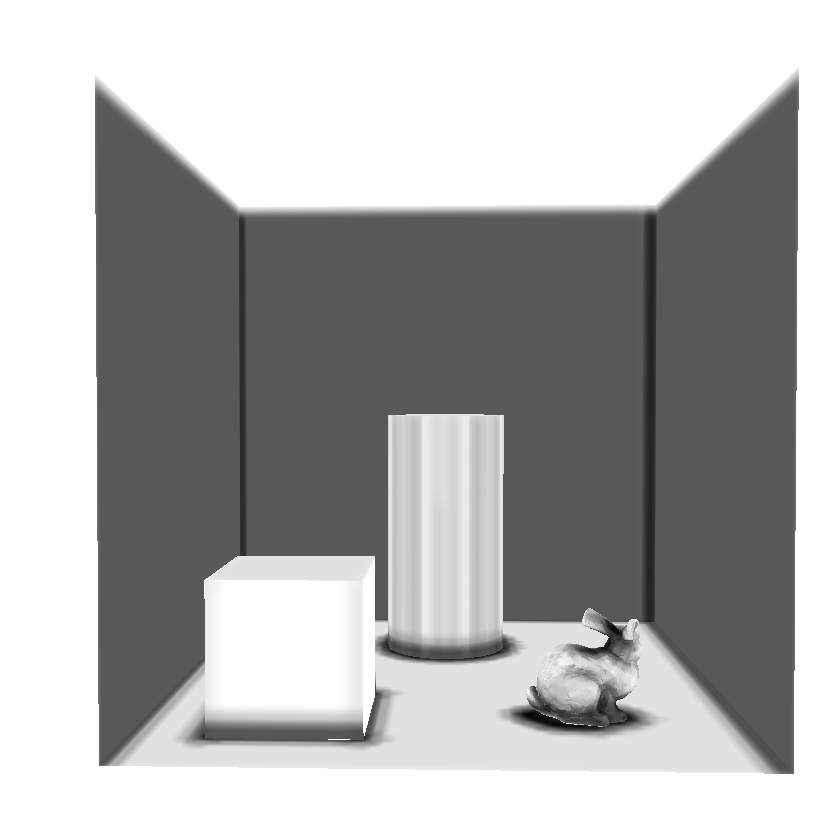
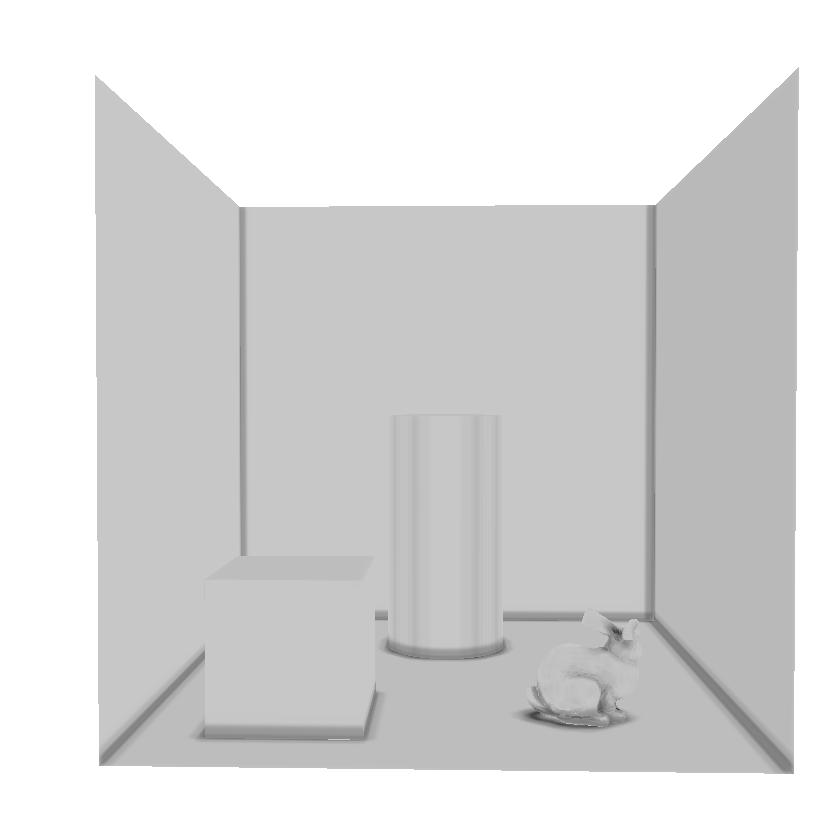
Polished post processing step

diff --git a/crates/core/src/cone_tracing/voxel_cone_trace.rs b/crates/core/src/cone_tracing/voxel_cone_trace.rs
@@ -15,6 +15,15 @@ use crate::{
 pub struct ConeTracer {
     shader: Shader,
     pub toggles: Toggles,
+    framebuffer: Framebuffer<1>,
+    max_color_shader: Shader,
+    post_processing_shader: Shader,
+    processed_framebuffer: Framebuffer<1>,
+}
+
+pub struct VisualTestsParameters<'a> {
+    pub screenshot_name: &'a str,
+    pub should_update: bool,
 }
 
 impl ConeTracer {
@@ -22,6 +31,10 @@ impl ConeTracer {
         Self {
             shader: compile_shaders!("assets/shaders/octree/coneTracing.glsl"),
             toggles: Toggles::default(),
+            framebuffer: unsafe { Framebuffer::<1>::new() },
+            max_color_shader: compile_compute!("assets/shaders/octree/getMaxColor.comp.glsl"),
+            post_processing_shader: compile_shaders!("assets/shaders/octree/postProcessing.glsl"),
+            processed_framebuffer: unsafe { Framebuffer::<1>::new() },
         }
     }
 
@@ -34,7 +47,7 @@ impl ConeTracer {
         quad: &Quad,
         camera: &Camera,
         parameters: &HashMap<&str, ConeParameters>,
-        visual_tests_data: Option<(&str, &Framebuffer<1>, bool)>, // When specified, will write to a framebuffer instead of to screen, and save the image to disk
+        visual_tests_parameters: Option<&VisualTestsParameters>,
     ) {
         self.shader.use_program();
 
@@ -168,34 +181,22 @@ impl ConeTracer {
 
         self.shader.set_bool(c_str!("isDirectional"), light.is_directional());
 
-        let quad_vao = quad.get_vao();
         if self.toggles.should_show_final_image_quad() {
-            if let Some((_, framebuffer, _)) = visual_tests_data {
-                gl::BindFramebuffer(gl::FRAMEBUFFER, framebuffer.fbo());
-                gl::Enable(gl::DEPTH_TEST);
-                gl::ClearColor(0.0, 0.0, 0.0, 0.0);
-                gl::ColorMask(gl::TRUE, gl::TRUE, gl::TRUE, gl::TRUE);
-                gl::Clear(gl::COLOR_BUFFER_BIT | gl::DEPTH_BUFFER_BIT);
-            }
-            gl::BindVertexArray(quad_vao);
-            gl::DrawElements(
-                gl::TRIANGLES,
-                quad.get_num_indices() as i32,
-                gl::UNSIGNED_INT,
-                std::ptr::null(),
-            );
-            gl::BindVertexArray(0);
-            if let Some((_, framebuffer, _)) = visual_tests_data {
-                gl::BindFramebuffer(gl::FRAMEBUFFER, 0);
-            }
+            self.create_image(quad); // Loads it in the framebuffer
+            let max_color_norm = self.calculate_max_color_norm();
+            self.run_post_processing(quad, max_color_norm); // Runs post processing effects on the framebuffer, stores in final framebuffer
+            self.render_to_screen(quad); // Renders the framebuffer to the screen
         }
 
-        if let Some((filename, framebuffer, should_update)) = visual_tests_data {
-            let filepath = format!("screenshots/{filename}.png");
-            if should_update {
-                framebuffer.save_color_attachment_to_file(0, &filepath);
+        if let Some(VisualTestsParameters {
+            screenshot_name,
+            should_update
+        }) = visual_tests_parameters {
+            let filepath = format!("screenshots/{screenshot_name}.png");
+            if *should_update {
+                self.processed_framebuffer.save_color_attachment_to_file(0, &filepath);
             } else {
-                let result = framebuffer.compare_attachment_to_file(0, &filepath)
+                let result = self.processed_framebuffer.compare_attachment_to_file(0, &filepath)
                     .expect("Image not found for comparing. Generate it with `--update-sceenshots` first.");
                 assert!(
                     result,
@@ -205,6 +206,72 @@ impl ConeTracer {
                 );
             }
         }
+    }
+
+    unsafe fn create_image(&self, quad: &Quad) {
+        gl::BindFramebuffer(gl::FRAMEBUFFER, self.framebuffer.fbo());
+        gl::Enable(gl::DEPTH_TEST);
+        gl::ClearColor(0.0, 0.0, 0.0, 0.0);
+        gl::ColorMask(gl::TRUE, gl::TRUE, gl::TRUE, gl::TRUE);
+        gl::Clear(gl::COLOR_BUFFER_BIT | gl::DEPTH_BUFFER_BIT);
+        gl::BindVertexArray(quad.get_vao());
+        gl::DrawElements(
+            gl::TRIANGLES,
+            quad.get_num_indices() as i32,
+            gl::UNSIGNED_INT,
+            std::ptr::null(),
+        );
+        gl::BindVertexArray(0);
+        gl::BindFramebuffer(gl::FRAMEBUFFER, 0);
+    }
+
+    unsafe fn calculate_max_color_norm(&self) -> f32 {
+        self.max_color_shader.use_program();
+        gl::ActiveTexture(gl::TEXTURE0);
+        gl::BindTexture(gl::TEXTURE_2D, self.framebuffer.textures()[0]);
+        self.max_color_shader.set_int(c_str!("inputTexture"), 0);
+        let (max_color_texture, max_color_texture_buffer) = helpers::generate_texture_buffer(1, gl::R32UI, 0u32);
+        helpers::bind_image_texture(0, max_color_texture, gl::READ_WRITE, gl::R32UI);
+        self.max_color_shader.dispatch_xyz(vec3(
+            840,
+            840,
+            1,
+        ));
+        self.max_color_shader.wait();
+        let max_color_norm = helpers::get_values_from_texture_buffer(max_color_texture_buffer, 1, 42u32)[0];
+        let normalized_max_color_norm = max_color_norm as f32 / 1000.0; // This same value is used in the shader
+        normalized_max_color_norm
+    }
+
+    unsafe fn run_post_processing(&self, quad: &Quad, max_color_norm: f32) {
+        // Set uniforms
+        self.post_processing_shader.use_program();
+        gl::ActiveTexture(gl::TEXTURE0);
+        gl::BindTexture(gl::TEXTURE_2D, self.framebuffer.textures()[0]);
+        self.post_processing_shader.set_int(c_str!("inputTexture"), 0);
+        self.post_processing_shader.set_float(c_str!("maxNorm"), max_color_norm);
+
+        // Framebuffer
+        gl::BindFramebuffer(gl::FRAMEBUFFER, self.processed_framebuffer.fbo());
+        gl::Enable(gl::DEPTH_TEST);
+        gl::ClearColor(0.0, 0.0, 0.0, 0.0);
+        gl::ColorMask(gl::TRUE, gl::TRUE, gl::TRUE, gl::TRUE);
+        gl::Clear(gl::COLOR_BUFFER_BIT | gl::DEPTH_BUFFER_BIT);
+
+        // Draw using quad
+        gl::BindVertexArray(quad.get_vao());
+        gl::DrawElements(
+            gl::TRIANGLES,
+            quad.get_num_indices() as i32,
+            gl::UNSIGNED_INT,
+            std::ptr::null(),
+        );
+        gl::BindVertexArray(0);
+        gl::BindFramebuffer(gl::FRAMEBUFFER, 0);
+    }
+
+    unsafe fn render_to_screen(&self, quad: &Quad) {
+        quad.render(self.processed_framebuffer.textures()[0]);
     }
 }
 

diff --git a/crates/cli/src/main.rs b/crates/cli/src/main.rs
@@ -8,7 +8,7 @@ use c_str_macro::c_str;
 extern crate gl;
 use core::{
     config::Config as CoreConfig,
-    cone_tracing::{ConeTracer, DebugCone},
+    cone_tracing::{ConeTracer, DebugCone, VisualTestsParameters},
     voxelization,
     voxelization::visualize::RenderVoxelFragmentsShader,
     menu::{
@@ -92,6 +92,10 @@ fn main() {
         "assets/shaders/model/renderNormals.frag.glsl",
         "assets/shaders/model/renderNormals.geom.glsl",
     );
+    let visual_tests_parameters = VisualTestsParameters {
+        screenshot_name: &options.preset,
+        should_update: options.update_screenshots,
+    };
     let mut cone_tracer = ConeTracer::init();
     let mut cone_parameters = HashMap::new();
     let mut debug_cone = unsafe { DebugCone::new() };
@@ -159,9 +163,6 @@ fn main() {
     };
     let quad = unsafe { Quad::new() };
     let camera_framebuffer = unsafe { GeometryFramebuffer::new() };
-
-    // Only used when taking a screenshot to compare
-    let final_image_framebuffer = unsafe { Framebuffer::<1>::new() };
 
     let mut current_voxel_fragment_count: u32 = 0;
     let mut current_octree_level: u32 = 0;
@@ -445,11 +446,7 @@ fn main() {
                 &quad,
                 &camera,
                 &cone_parameters,
-                if options.visual_tests { Some((
-                    &options.preset,
-                    &final_image_framebuffer,
-                    options.update_screenshots,
-                )) } else { None },
+                if options.visual_tests { Some(&visual_tests_parameters) } else { None }
             );
 
             if should_show_debug_cone {

diff --git a/crates/core/src/cone_tracing/mod.rs b/crates/core/src/cone_tracing/mod.rs
@@ -8,7 +8,7 @@ mod debug_cone;
 pub use debug_cone::DebugCone;
 
 mod voxel_cone_trace;
-pub use voxel_cone_trace::{ConeTracer, Toggles};
+pub use voxel_cone_trace::{ConeTracer, Toggles, VisualTestsParameters};
 
 #[derive(Debug, Default, Serialize, Deserialize, Clone)]
 pub struct ConeParameters {
